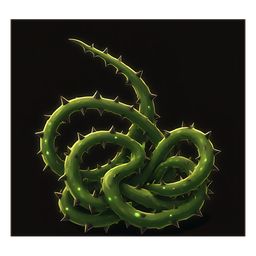
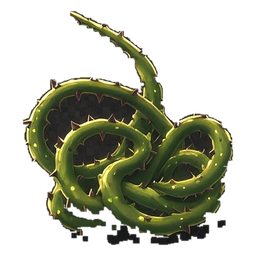
重新抠取完整怪物图像

diff --git a/game.js b/game.js
@@ -1135,7 +1135,7 @@
     : null;
   const loadCharacterTexture = (file, fallback) => (
     imageTextureLoader
-      ? imageTextureLoader.load(`assets/${file}?v=20261117-original-monsters2`)
+      ? imageTextureLoader.load(`assets/${file}?v=20261117-original-monsters3`)
       : fallback
   );
   const TEX = {

diff --git a/index.html b/index.html
@@ -812,7 +812,7 @@
 </div>
 
 <script src="vendor/three.min.js?v=20261117"></script>
-<script src="game.js?v=20261117-original-monsters2"></script>
+<script src="game.js?v=20261117-original-monsters3"></script>
 <script src="start.js?v=20261117"></script>
 </body>
 </html>
